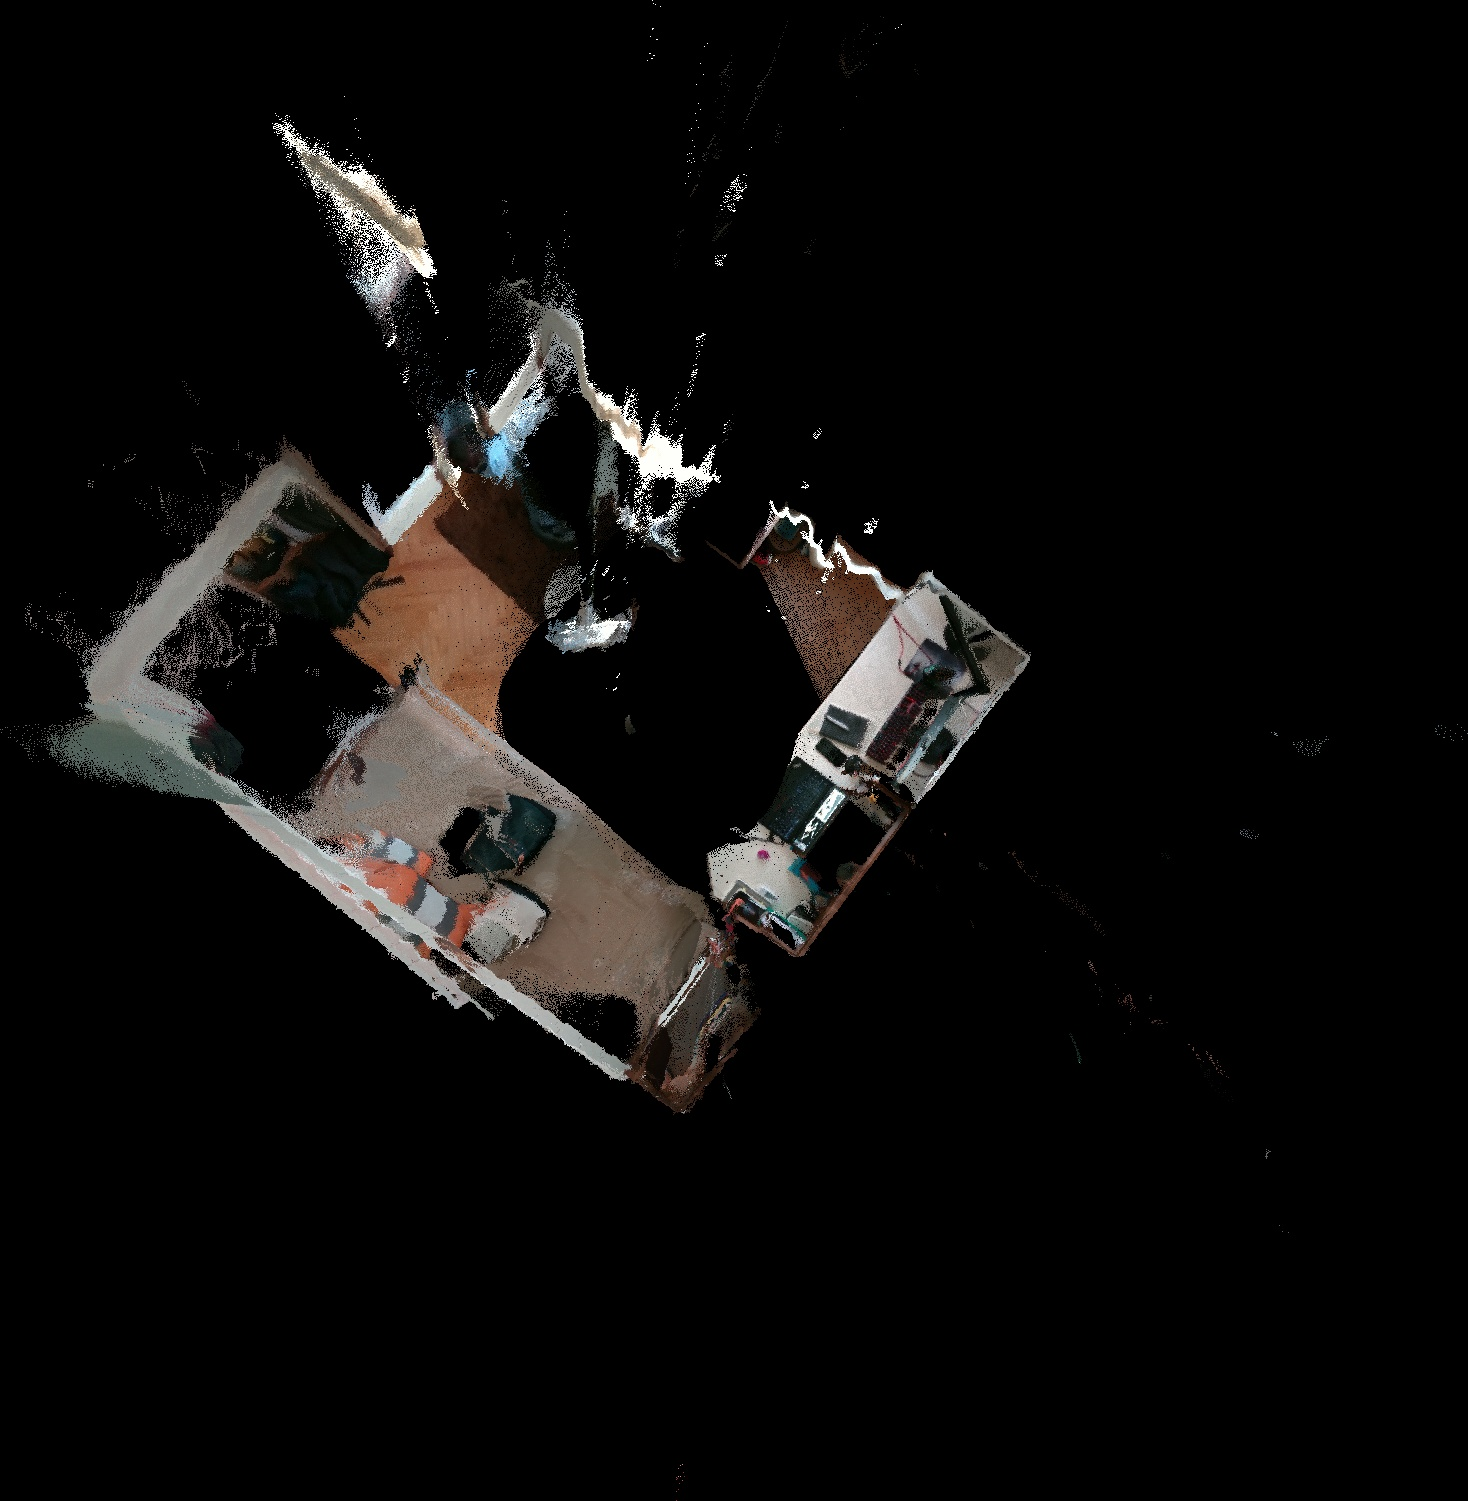
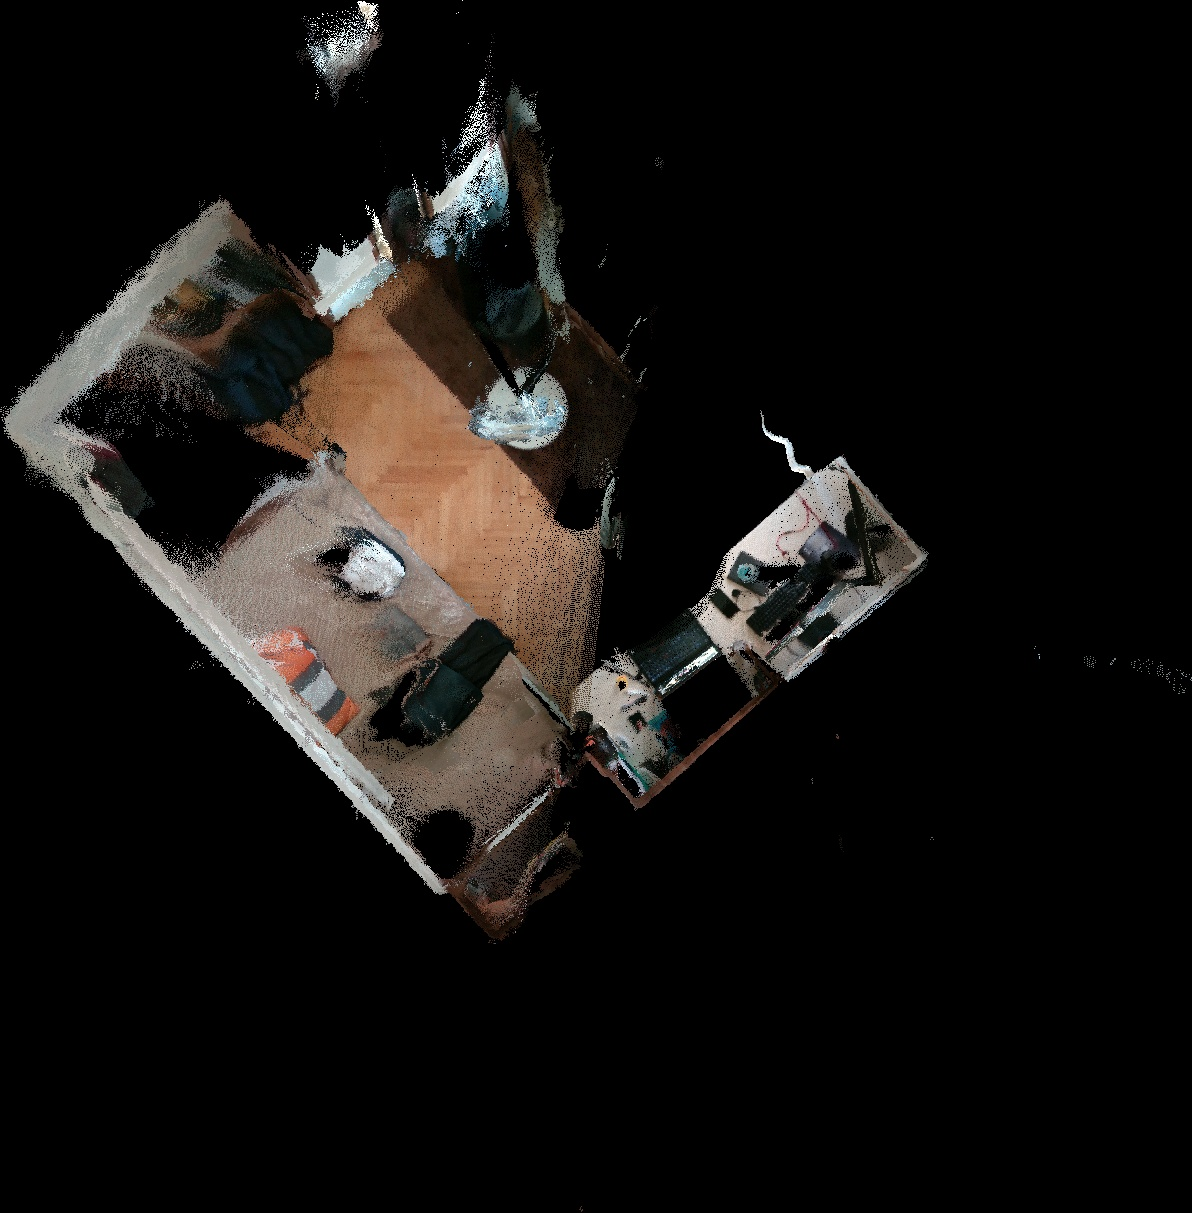
Online mosaicing without full cloud.

Changed region(s): [[0.0, 0.061, 0.776, 0.7931], [0.2483, 0.0, 0.3414, 0.0915], [0.4966, 0.122, 0.5277, 0.1525]]

diff --git a/mosaicing_pkg/src/mosaicing_tools.cpp b/mosaicing_pkg/src/mosaicing_tools.cpp
@@ -2,6 +2,15 @@
 
 std::mutex MosaicingTools::mosaicingLock;
 std::mutex MosaicingTools::minMaxLock;
+MosaicingTools::VoxelRaster MosaicingTools::voxelRaster;
+
+int MosaicingTools::VoxelRaster::rows() {
+    return raster.size();
+}
+
+int MosaicingTools::VoxelRaster::cols() {
+    return (rows() > 0) ? raster[0].size() : 0;
+}
 
 template <typename T>
 bool MosaicingTools::isNaN(const T& value) {
@@ -314,22 +323,87 @@ void MosaicingTools::rasterizationThread(std::vector<std::vector<Voxel>>& voxeli
     //std::cout << "RASTER thread with START " << startRow << " and END " << endRow << " finished!" << std::endl;
 }
 
+void MosaicingTools::resizeRaster(pcl::PointXYZRGB min, pcl::PointXYZRGB max, double grid_size) {
+    pcl::StopWatch watch;
+    int moveX = 0;
+    int moveY = 0;
+
+    if(!voxelRaster.initialized) {
+        voxelRaster.min = min;
+        voxelRaster.max = max;
+
+        int xSize = ceil((voxelRaster.max.x - voxelRaster.min.x) / grid_size);
+        int ySize = ceil((voxelRaster.max.y - voxelRaster.min.y) / grid_size);
+
+        voxelRaster.raster = std::vector<std::vector<Voxel>>(ySize, std::vector<Voxel>(xSize));
+        voxelRaster.initialized = true;
+        return;
+    }
+
+    //The raster is made so that (0,0) corresponds to max coordinates (for some reason)
+    if(max.x > voxelRaster.max.x) {
+        moveX = ((max.x - voxelRaster.max.x) / grid_size);
+    }
+    if(max.y > voxelRaster.max.y) {
+        moveY = ((max.y - voxelRaster.max.y) / grid_size);
+    }
+
+    pcl::PointCloud<pcl::PointXYZRGB>::Ptr cloud(new pcl::PointCloud<pcl::PointXYZRGB>);
+    cloud->points.push_back(min);
+    cloud->points.push_back(max);
+    cloud->points.push_back(voxelRaster.min);
+    cloud->points.push_back(voxelRaster.max);
+
+    //std::cout << "MIN: " << min << "\nMAX: " << max << "\nVMIN: " << voxelRaster.min << "\nVMAX: " << voxelRaster.max << std::endl;
+
+    pcl::getMinMax3D(*cloud, voxelRaster.min, voxelRaster.max); //Calculating new min and max
+
+    //std::cout << "NEW_MIN: " << voxelRaster.min << " NEW_MAX: " << voxelRaster.max << std::endl;
+
+    int xSize = ceil((voxelRaster.max.x - voxelRaster.min.x) / grid_size);
+    int ySize = ceil((voxelRaster.max.y - voxelRaster.min.y) / grid_size);
+
+    // std::cout << "MoveX " << moveX << " MoveY: " << moveY << std::endl;
+    // std::cout << "OLD: " << voxelRaster.rows() << "x" << voxelRaster.cols() << std::endl;
+    // std::cout << "NEW: " << ySize << "x" << xSize << std::endl;
+
+    if(xSize != voxelRaster.cols() || ySize != voxelRaster.rows()) {
+        std::cout << "Resizing..." << std::endl;
+        std::vector<std::vector<Voxel>> resizedRaster(ySize, std::vector<Voxel>(xSize));
+        for(int i = 0; i < voxelRaster.rows(); i++) {
+            for(int j = 0; j < voxelRaster.cols(); j++) {
+                int dstX = moveX + j;
+                int dstY = moveY + i;
+                if(dstY >= 0 && dstY < ySize && dstX >= 0 && dstX < xSize)
+                    resizedRaster[dstY][dstX] = voxelRaster.raster[i][j]; 
+            }
+        }
+
+        voxelRaster.raster = resizedRaster;
+    } else {
+        std::cout << "No need to resize" << std::endl;
+    }
+
+    std::cout << "Finished resizing raster after: " << watch.getTimeSeconds() << "s" << std::endl;
+}
+
 cv::Mat MosaicingTools::generateMosaic(pcl::PointCloud<pcl::PointXYZRGB>::Ptr cloud, double grid_resolution, int numThreads) {
     pcl::PointXYZRGB min, max;
-    //pcl::getMinMax3D(*cloud, min, max);
     pcl::StopWatch watch; //timing execution
     fasterGetMinMax3D(cloud, min, max, 8);
     std::cout << "MinMax ended after: " << watch.getTimeSeconds() << "s" << std::endl;
 
-    int xSize = ceil((max.x - min.x) / grid_resolution);
-    int ySize = ceil((max.y - min.y) / grid_resolution);
+    //int xSize = ceil((max.x - min.x) / grid_resolution);
+    //int ySize = ceil((max.y - min.y) / grid_resolution);
     //int zSize = ceil((max.z - min.z) / grid_resolution);
 
     //Generating a raster which acts as a top layer of a voxelized space
     std::cout << "Voxelizing..." << std::endl;
     watch.reset();
 
-    std::vector<std::vector<Voxel>> voxelized(ySize, std::vector<Voxel>(xSize));
+    resizeRaster(min, max, grid_resolution);
+
+    //std::vector<std::vector<Voxel>> voxelized(ySize, std::vector<Voxel>(xSize));
     std::vector<std::thread> threads;
     int pointsPerThread = cloud->points.size() / numThreads;
 
@@ -337,8 +411,8 @@ cv::Mat MosaicingTools::generateMosaic(pcl::PointCloud<pcl::PointXYZRGB>::Ptr cl
         int startP = threadId * pointsPerThread;
         int endP = (threadId == numThreads - 1) ? (cloud->points.size() - 1) : (startP + pointsPerThread);
 
-        threads.emplace_back(MosaicingTools::voxelizationThread, std::ref(cloud), std::ref(voxelized),
-                            startP, endP, min, max, grid_resolution);
+        threads.emplace_back(MosaicingTools::voxelizationThread, std::ref(cloud), std::ref(voxelRaster.raster),
+                            startP, endP, voxelRaster.min, voxelRaster.max, grid_resolution);
     }
 
     for(auto& thread : threads) {
@@ -352,14 +426,15 @@ cv::Mat MosaicingTools::generateMosaic(pcl::PointCloud<pcl::PointXYZRGB>::Ptr cl
     std::cout << "Projecting to raster..." << std::endl;
     watch.reset();
 
-    cv::Mat raster(ySize, xSize, CV_32FC3, cv::Scalar::all(std::numeric_limits<float>::quiet_NaN()));
+    //cv::Mat raster(ySize, xSize, CV_32FC3, cv::Scalar::all(std::numeric_limits<float>::quiet_NaN()));
+    cv::Mat raster(voxelRaster.rows(), voxelRaster.cols(), CV_32FC3, cv::Scalar::all(std::numeric_limits<float>::quiet_NaN()));
     int rowsPerThread = raster.rows / numThreads;
 
     for(int threadId = 0; threadId < numThreads; threadId++) {
         int startRow = threadId * rowsPerThread;
         int endRow = (threadId == numThreads - 1) ? raster.rows : (startRow + rowsPerThread);
 
-        threads.emplace_back(MosaicingTools::rasterizationThread, std::ref(voxelized), std::ref(raster),
+        threads.emplace_back(MosaicingTools::rasterizationThread, std::ref(voxelRaster.raster), std::ref(raster),
                             startRow, endRow);
     }
 

diff --git a/mosaicing_pkg/src/mosaicing_node.cpp b/mosaicing_pkg/src/mosaicing_node.cpp
@@ -19,7 +19,7 @@
 #define CLOUD_MAX_DEPTH 0.0
 #define CLOUD_MIN_DEPTH 0.0
 #define CLOUD_VOXEL_SIZE 0.01
-#define NUM_POSES_TO_MOSAIC 1
+#define ACCUMULATED_CLOUDS 5
 
 std::mutex cloudLock;
 std::condition_variable dataReadyCondition;
@@ -37,15 +37,16 @@ public:
     void dataProcessingThread() {
         while(true) {
             {
-                std::cout << "Mosaicing thread" << std::endl;
+                std::cout << "Mosaicing thread; DATA TO PROCESS: " << cloudsToProcess.size() << std::endl;
                 std::unique_lock<std::mutex> lock(cloudLock);
-                dataReadyCondition.wait(lock, [this]{ return !cloudsToProcess.empty(); });
+                dataReadyCondition.wait(lock, [this]{ return (cloudsToProcess.size() >= ACCUMULATED_CLOUDS); });
                 for(std::size_t i = 0; i < cloudsToProcess.size(); i++) {
                     *pcl_cloud += *cloudsToProcess.front();
                     cloudsToProcess.pop();
                 }
+
+                mosaicer(pcl_cloud);
             }
-            mosaicer(pcl_cloud);
         }
     }
 
@@ -72,6 +73,7 @@ private:
         cv::waitKey(50);
 
         std::cout << "Done generating!" << std::endl;
+        pcl_cloud->clear(); //clearing processed data
     }
 
     void processMapData(const rtabmap_msgs::msg::MapData map) {
@@ -129,18 +131,9 @@ private:
                        //Filtering outliers > X meters away from camera pose
                        auto pose = s.getPose();
                        pcl::PointXYZRGB referencePoint = pcl::PointXYZRGB(pose.x(), pose.y(), pose.z());
-                       MosaicingTools::thresholdFilter(cloud, cloud, referencePoint, 4.0);
+                       MosaicingTools::thresholdFilter(cloud, cloud, referencePoint, 3.0);
                        //MosaicingTools::filterCloud(cloud, cloud, 50, 0.3);
                        *cloud = *rtabmap::util3d::transformPointCloud(cloud, s.getPose());
-
-                       /*cloudLock.lock();
-                       *pcl_cloud += *cloud;
-                       cloudLock.unlock();
-
-                       if(!mosaicingLock.try_lock() poses.size() % NUM_POSES_TO_MOSAIC == 0) {
-                            mosaicer(pcl_cloud);
-                            mosaicingLock.unlock();
-                       } else return;*/
 
                         //adding clouds to processing queue
                        {

diff --git a/mosaicing_pkg/src/mosaicing_tools.h b/mosaicing_pkg/src/mosaicing_tools.h
@@ -66,9 +66,6 @@ public:
 private:
     MosaicingTools();
 
-    static std::mutex mosaicingLock;
-    static std::mutex minMaxLock;
-
     struct Voxel{
         int datapoints = 0;
         int height = 0; 
@@ -77,11 +74,31 @@ private:
         void addPoint(pcl::PointXYZRGB* point, int heightIndex);
     };
 
+    struct VoxelRaster {
+        std::vector<std::vector<Voxel>> raster;
+        //Min and max point cloud point to know how to resize
+        pcl::PointXYZRGB max{-std::numeric_limits<float>::infinity(), -std::numeric_limits<float>::infinity(), -std::numeric_limits<float>::infinity()}; 
+        pcl::PointXYZRGB min{std::numeric_limits<float>::infinity(), std::numeric_limits<float>::infinity(), std::numeric_limits<float>::infinity()};
+
+        bool initialized = false;
+        
+        int rows();
+        int cols();
+    };
+
+    static std::mutex mosaicingLock;
+    static std::mutex minMaxLock;
+
+    static VoxelRaster voxelRaster;
+
     static void nnInterpolationThread(cv::Mat& input, cv::Mat& output, cv::Mat& dataPoints, cv::flann::Index& kdTree, float searchRadius, int startRow, int endRow);
     static void knnInterpolationThread(const cv::Mat& input, cv::Mat& output, const cv::Mat& dataPoints, cv::flann::Index& kdTree, float searchRadius, int nNeighbors, float p, int startRow, int endRow);
     static void voxelizationThread(pcl::PointCloud<pcl::PointXYZRGB>::Ptr cloud, std::vector<std::vector<Voxel>>& voxelized, int startP, int endP, pcl::PointXYZRGB min, pcl::PointXYZRGB max, double grid_resolution);
     static void rasterizationThread(std::vector<std::vector<Voxel>>& voxelized, cv::Mat& raster, int startRow, int endRow);
     static void minMaxThread(pcl::PointCloud<pcl::PointXYZRGB>::Ptr cloud, pcl::PointXYZRGB& min, pcl::PointXYZRGB& max, int startP, int endP);
+
+    static void resizeRaster(pcl::PointXYZRGB min, pcl::PointXYZRGB max, double grid_size);
+    //static void pasteNewTile(Mosaic& mosaic, cv::Mat tile, pcl::PointXYZRGB tileMin, pcl::PointXYZRGB tileMax, double grid_size);
 };
 
 template <>
